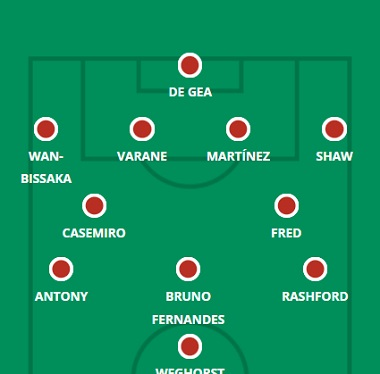
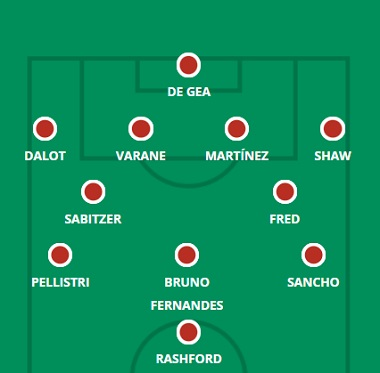
11-20

diff --git a/united.html b/united.html
@@ -63,15 +63,15 @@
     <hgroup>
         <h1> Provável Escalação</h1>
         <h2 class="direita"> por FabioVascão </h2>
-        <h3 class="direita"> Atualizado em 03/Fever eiro/2023 </h3>
+        <h3 class="direita"> Atualizado em 10/Fevereiro/2023 </h3>
     </hgroup>
 
     <div class="selecao"><p><b><img src="images/logos/manchester-united.png" width="100rem" height="100rem"/> Manchester United</b></p></div>
        
     <div class="escalacao">
         <div class="topo">
-            <h2 class="titulo">Ultimas Notícias</h2> <h4><p> Diogo Dalot (músculo) voltou a treinar com o Manchester United esta semana, mas não houve nenhuma atualização sobre sua condição física de Erik ten Hag na seção de transmissão de sua coletiva de imprensa pré-jogo. O reserva Jack Butland está inelegível para enfrentar seu clube pai no sábado, enquanto Scott McTominay (questão não especificada) juntou-se aos ausentes de longa data Christian Eriksen (tornozelo) e Donny van de Beek (joelho) nas laterais. A nova contratação, Marcel Sabitzer, foi considerada apta para jogar por seu técnico, no entanto, e os recém-disponíveis Jadon Sancho e Anthony Martial apareceram como substitutos na vitória da semifinal da Carabao Cup no meio da semana sobre o Nottingham Forest. Quem faz parceria com Casemiro é provavelmente a maior chamada para dez Hag, com Fred talvez o favorito (ele desempenhou o papel com grande efeito contra o Spurs na 12ª rodada), já que Sabitzer teve apenas uma sessão de treinamento com seus companheiros de equipe. O retorno iminente de Dalot levanta o alarme para Aaron Wan-Bissaka, que tem se saído bem como lateral-direito ultimamente, enquanto as perspectivas iniciais de Tyrell Malacia dependem inteiramente de Shaw se machucar ou ser transferido para o meio-campo novamente. Quem lidera a linha é outro grande dilema: Martial foi sem dúvida apressado demais na Gameweek 20, então dez Hag pode querer resistir ao impulso de fazê-lo novamente aqui, embora esteja claro o quanto ele ama o francês no topo.</p></h4><br>
-            <h4><strong>Dúvidas:</strong> Dalot, Van de Beek, Eriksen, Butland e McTominay.</h4>
+            <h2 class="titulo">Ultimas Notícias</h2> <h4><p> Não temos certeza se teremos notícias de Erik ten Hag antes do prazo final da Gameweek 23, com seu tempo anunciado na lista de coletiva de imprensa pré-jogo passando sem nenhuma reportagem. Sabemos que Christian Eriksen (tornozelo), Donny van de Beek (joelho) e Casemiro (suspenso) permanecem de fora, embora pareça improvável que Scott McTominay (problema não especificado) se recupere para a rápida partida de volta em Elland Road. A disponibilidade de Anthony Martial (quadril) e Antony (perna) para a Rodada 23 também é desconhecida depois que ten Hag excluiu a dupla do confronto no meio da semana contra o Leeds, uma partida que Aaron Wan-Bissaka perdeu devido a “doença”. O United ficará sem corpos se nenhum desses contingentes retornar, mas dez Hag ainda tem opções disponíveis para ele se quiser agitar as coisas, com sua reformulação tática no meio da semana de mover Marcus Rashford para o topo às custas do ineficaz Wout Weghorst certamente algo na frente de sua mente. Jadon Sancho está suficientemente impressionado para sugerir que voltará ao XI titular no domingo, deixando Alejandro Garnacho e Facundo Pellistri brigando pelo outro meio-campo se Antony ou Martial não estiverem disponíveis. O mais defensivo Wan-Bissaka também pode retornar no lugar de Diogo Dalot se se recuperar de uma doença, com Wilfried Gnonto provando ser um punhado no jogo reverso de quarta-feira. Vimos o mal do Jekyll-e-Hyde Fred em Old Trafford, mas exceto por empurrar Victor Lindelof para o meio-campo (algo que Ten Hag discutiu anteriormente e como aconteceu nos estágios finais no meio da semana), não há muita competição para o brasileiro atualmente.</p></h4><br>
+            <h4><strong>Dúvidas:</strong> Van de Beek, Eriksen, Antony, Martial, Wan-Bissaka, Casemiro e McTominay.</h4>
         </div>
         <aside>
             <figure>

diff --git a/leeds.html b/leeds.html
@@ -63,15 +63,15 @@
     <hgroup>
         <h1> Provável Escalação</h1>
         <h2 class="direita"> por FabioVascão </h2>
-        <h3 class="direita"> Atualizado em 03/Fevereiro/2023 </h3>
+        <h3 class="direita"> Atualizado em 10/Fevereiro/2023 </h3>
     </hgroup>
 
     <div class="selecao"><p><b><img src="images/logos/leeds.png" width="100rem" height="100rem"/> Leeds</b></p></div>
        
     <div class="escalacao">
         <div class="topo">
-            <h2 class="titulo">Ultimas Notícias</h2> <h4><p> Rodrigo Moreno (tornozelo) juntou-se a Stuart Dallas (joelho), Archie Gray (tornozelo), Sonny Perkins (tornozelo) e Adam Forshaw (quadril) nos bastidores da viagem a Nottingham Forest, enquanto Robin Koch ficará de fora deste jogo por suspensão . Pascal Struijk, Liam Cooper, Crysencio Summerville e Tyler Adams estão todos aptos, no entanto, enquanto a equipe do Leeds foi reforçada desde a 21ª rodada com as contratações do meio-campista Weston McKennie e do jovem meia Diogo Monteiro. Há dores de cabeça de seleção em todo o parque com os retornados por lesão e as aquisições da janela de janeiro. Qualquer combinação de Cooper, Struijk e Max Wober pode ser combinada na ausência de Koch, embora haja a chance de Jesse Marsch optar pelo lateral-direito natural Luke Ayling no meio-campo. A chegada de McKennie ameaça o lugar de Marc Roca ou dá a Marsch a opção de ir para 4-3-3, enquanto Georginio Rutter e Luis Sinisterra estão pressionando para começar nos flancos / cima depois de perder contra Accrington no fim de semana passado. O estado mental de Jack Harrison pode influenciar parcialmente se algum deles conseguirá o aceno no City Ground, já que o ala - que se destacou na copa no fim de semana passado - estava muito perto de se juntar ao Leicester no prazo final um dia antes de o plugue ser desligado em movimento . Até mesmo o esquecido Junior Firpo está reivindicando a titularidade depois de impressionar em Accrington, embora a disponibilidade dos canhotos Wober, Struijk e Cooper torne isso menos provável. Bamford espera liderar a linha na ausência de Rodrigo, mas o tempo de jogo compartilhado de alguma variedade com Rutter parece provável na próxima semana e além.</p></h4><br>
-            <h4><strong>Dúvidas:</strong> Dallas, Gray (Archie), Rodrigo, Koch, Perkins e Forshaw.</h4>
+            <h2 class="titulo">Ultimas Notícias</h2> <h4><p> Pascal Struijk (suspensão) se juntou a Rodrigo Moreno (tornozelo) e Stuart Dallas (joelho) nas laterais, enquanto os comentários do gerente interino Michael Skubala sobre as "lesões de longa duração" permanecerem as mesmas sugerem Archie Gray (tornozelo) e Adam Forshaw (quadril ) permanecem fora. Liam Cooper (knock) e Marc Roca (knock) serão avaliados depois de perder o jogo reverso contra o Manchester United, enquanto Luis Sinisterra (músculo) não está muito ferido depois de sair mancando do jogo no meio da semana, mas ainda é uma dúvida significativa para domingo . Junior Firpo impressionou como substituto em Old Trafford e será necessário como lateral-esquerdo se Cooper se juntar a Struijk nas laterais (o versátil Max Wober continua no meio-campo), enquanto Brenden Aaronson e Crysencio Summerville lutarão para substituir Sinisterra fora de largura; foi o primeiro que saiu do banco para substituir o colombiano na quarta-feira. Há uma chance de Georginio Rutter conseguir uma saída no meio se Patrick Bamford for considerado muito arriscado para começar dois jogos em quatro dias, embora Bamford tenha pelo menos conseguido respirar depois de uma hora no derby dos Roses. Sam Greenwood ou Roca (se adequado) também podem entrar para fazer um meio-campo de três homens, caso Skubala queira proceder com um pouco mais de cautela desta vez.</p></h4><br>
+            <h4><strong>Dúvidas:</strong> Dallas, Struijk, Gray (Archie), Rodrigo, Cooper, Perkins, Roca, Sinisterra e Forshaw.</h4>
         </div>
         <aside>
             <figure>

diff --git a/brighton.html b/brighton.html
@@ -63,15 +63,15 @@
     <hgroup>
         <h1> Provável Escalação</h1>
         <h2 class="direita"> por FabioVascão </h2>
-        <h3 class="direita"> Atualizado em 03/Fevereiro/2023 </h3>
+        <h3 class="direita"> Atualizado em 10/Fevereiro/2023 </h3>
     </hgroup>
 
     <div class="selecao"><p><b><img src="images/logos/brighton.png" width="100rem" height="100rem"/> Brighton</b></p></div>
        
     <div class="escalacao">
         <div class="topo">
-            <h2 class="titulo">Ultimas Notícias</h2> <h4><p> Levi Colwill (músculo), Adam Lallana (músculo), Jakub Moder (joelho) e Alexis Mac Allister (suspenso) perderão a visita ao Bournemouth, enquanto Evan Ferguson (joelho) será avaliado após o temor de uma lesão grave diminuir. Como resultado, Roberto De Zerbi não está muito longe de ser reduzido ao máximo neste fim de semana, mas ainda há uma ou duas dores de cabeça de seleção para o chefe de Brighton: onde ele decide colocar o versátil Pascal Gross pode ditar se Jeremy Sarmiento ou Billy Gilmour vem para o lado para um raro início de liga. A forma física de Adam Webster (ele saiu após 45 minutos na copa) também pode ser o fator decisivo no meio-campo, e foi interessante ver Joel Veltman substituí-lo contra o Liverpool após a exibição vacilante de Jan Paul van Hecke contra o Leicester na Gameweek 21. Os senhores Sanchez, Dunk, Estupinan, Gross, March e Mitoma parecem titulares seguros, enquanto De Zerbi confirmou que Tariq Lamptey jogará e que Facundo Buonanotte estará no banco contra os Cherries. Não parece haver uvas verdes com Moises Caicedo depois de seu apelo 'venha e me pegue' ao Arsenal na janela de transferência de janeiro, então o internacional do Equador parece pronto para retornar ao meio-campo.</p></h4><br>
-            <h4><strong>Dúvidas:</strong> Moder, Fergunson, Lallana, Mac Allister e Colwill. </h4>
+            <h2 class="titulo">Ultimas Notícias</h2> <h4><p> Levi Colwill (músculo), Jakub Moder (joelho) e Adam Lallana (músculo) permanecem de fora e Brighton tem "algumas dúvidas [não identificadas]", mas Alexis Mac Allister está de volta após suspensão e Evan Ferguson (joelho) foi aprovado. Mac Allister foi um dos dois titulares confirmados por Roberto De Zerbi em sua pressão pré-jogo, com Joel Veltman também homenageado. Isso não nos ajuda muito, no entanto, já que Veltman pode ser lateral-direito (no lugar de Tariq Lamptey) ou meio-zagueiro (preferido a Adam Webster), enquanto o comentário de De Zerbi sobre a escolha entre Ferguson ou Deniz Undav sugere que Pascal Gross não será acomodado mais à frente - então o alemão pode estar na lateral-direita ou mesmo ser uma das dúvidas misteriosas a que De Zerbi aludiu. O chefe do Brighton parecia estar a apontar-nos na direção de Undav recebendo o aceno atrás de Danny Welbeck, dizendo que "sabe quando tem de jogar e quando tem de atacar o espaço" e que é "certo dar-lhe a possibilidade jogar". Tudo poderia ser kidology antes do derby M23, é claro. Em outros lugares, os senhores Sanchez, Dunk, Estupinan, March e Mitoma parecem titulares seguros, a menos que sejam vítimas de lesões não declaradas, enquanto Moises Caicedo espera ser chamado de volta no meio-campo depois que De Zerbi o colocou de volta no banco após a transferência no mês passado.</p></h4><br>
+            <h4><strong>Dúvidas:</strong> Moder, Lallana e Colwill. </h4>
         </div>
         <aside>
             <figure>

diff --git a/brentford.html b/brentford.html
@@ -63,15 +63,15 @@
     <hgroup>
         <h1> Provável Escalação</h1>
         <h2 class="direita"> por FabioVascão </h2>
-        <h3 class="direita"> Atualizado em 03/Fevereiro/2023 </h3>
+        <h3 class="direita"> Atualizado em 10/Fevereiro/2023 </h3>
     </hgroup>
 
     <div class="selecao"><p><b><img src="images/logos/brentford.png" width="100rem" height="100rem"/> Brentford</b></p></div>
        
     <div class="escalacao">
         <div class="topo">
-            <h2 class="titulo">Ultimas Notícias</h2> <h4><p> Pontus Jansson (coxa) e Frank Onyeka (coxa) permanecem de fora, mas Shandon Baptiste pode retornar à equipe da rodada, depois de ter se recuperado em janeiro, após alguns meses afastado. Thomas Frank pode estar em um dilema em relação à formação inicial, já que a implantação do 3-5-2 que ele normalmente usa contra os seis grandes times também está em operação contra o West Ham e o Leeds ultimamente. Frank voltou para um 4-3-3 para a vitória em casa sobre o Bournemouth na Gameweek 20, no entanto, e ele pode ver a visita do Southampton, último colocado da tabela, de uma maneira semelhante. Oito jogadores parecem titulares seguros (exceto por lesão) e as questões estão no lado direito da defesa, Josh DaSilva contra o mais defensivo Vitaly Janelt no meio-campo, e quem é Yoane Wissa, Keane Lewis-Potter e o novo garoto Kevin Schade recebe o aceno no flanco esquerdo se Frank for com três para cima. Mads Roerslev e Aaron Hickey (que não joga um minuto desde outubro) são laterais-direitos mais naturais, embora um desses dois jogadores e Kristoffer Ajer ainda possam jogar no mesmo time se virmos um sistema lateral novamente.</p></h4><br>
-            <h4><strong>Dúvidas:</strong> Baptiste, Onyenka e Jansson. </h4>
+            <h2 class="titulo">Ultimas Notícias</h2> <h4><p> Pontus Jansson (coxa), Frank Onyeka (coxa) e Thomas Strakosha (tornozelo) permanecem de fora para a viagem ao Arsenal, mas não há outras preocupações que saibamos antes do jogo de sábado. De uma coisa podemos ter certeza: Thomas Frank está usando um 3-5-2 para este confronto, como ele faz quase exclusivamente ao enfrentar um time 'big-seis' da Premier League. Cerca de oito dos XI previstos aqui também são titulares muito prováveis, com os dilemas sendo Kristoffer Ajer x Zanka no meio-campo, Aaron Hickey x Mads Roerslev na lateral direita e Josh Dasilva x Vitaly Janelt no meio-campo. Ajer é o batedor mais progressivo na bola contra as qualidades defensivas mais tradicionais de Zanka, enquanto Hickey normalmente seria um titular seguro, mas parecia enferrujado em seu retorno contra o Southampton. No meio-campo, é uma questão de saber se o aço adicionado de Janelt é necessário sobre o Dasilva mais ofensivo em um sistema já defensivo. Yoane Wissa será o provável substituto da Gameweek 22, ocupando seu lugar ao lado de nomes como Keane Lewis-Potter, Kevin Schade e Mikkel Damsgaard no banco.</p></h4><br>
+            <h4><strong>Dúvidas:</strong> Baptiste, Strakosha, Onyenka e Jansson. </h4>
         </div>
         <aside>
             <figure>

diff --git a/everton.html b/everton.html
@@ -63,15 +63,15 @@
     <hgroup>
         <h1> Provável Escalação</h1>
         <h2 class="direita"> por FabioVascão </h2>
-        <h3 class="direita"> Atualizado em 03/Fevereiro/2023 </h3>
+        <h3 class="direita"> Atualizado em 10/Fevereiro/2023 </h3>
     </hgroup>
 
     <div class="selecao"><p><b><img src="images/logos/everton.png" width="100rem" height="100rem"/> Everton</b></p></div>
        
     <div class="escalacao">
         <div class="topo">
-            <h2 class="titulo">Ultimas Notícias</h2> <h4><p> Em uma coletiva de imprensa dominada por conversas sobre a situação atual do Everton e seu próprio futuro, o técnico Frank Lampard revelou brevemente que os Toffees não têm novas preocupações físicas. Nathan Patterson (joelho) ainda está na lista de lesionados, enquanto James Garner (costas) e Andros Townsend (joelho) estão apenas de volta aos treinos individuais e não serão considerados. Michael Keane (joelho) também esteve de fora recentemente e acredita-se que continuará afastado. Lampard tem que decidir se vai ficar com um sistema lateral ou ir para quebrar em um 4-3-3 mais ofensivo para esta bola de seis pontos, e pode ser uma escolha direta entre Ben Godfrey como terceiro zagueiro ou Dwight. McNeil/Anthony Gordon como ala extra dependendo da decisão. Yerry Mina também pode entrar em jogo como zagueiro, com sua altura extra potencialmente útil para combater a força aérea do West Ham em lances de bola parada.</p></h4><br>
-            <h4><strong>Dúvidas:</strong> Garner, Patterson, Godfrey, Keane e Townsend. </h4>
+            <h2 class="titulo">Ultimas Notícias</h2> <h4><p> Dominic Calvert-Lewin (coxa) é "toque e vá na melhor das hipóteses" para o derby de Merseyside, enquanto Nathan Patterson (joelho) e Andros Townsend (ACL) permanecem de fora; Patterson está de volta à grama, mas apenas fazendo um trabalho de treinamento individual. James Garner (costas) e Michael Keane (joelho) também voltaram a treinar, mas, novamente, resta saber se eles estão aptos o suficiente para a viagem a Anfield. Dyche terá que fazer uma mudança forçada no topo se Calvert-Lewin perder como esperado, com Neal Maupay e Ellis Simms - ambos mencionados por seu gerente como possibilidades de destaque na imprensa de sexta-feira - as opções esperando nos bastidores. A excelente natureza da vitória do Everton sobre o Arsenal na semana passada sugere que novas alterações são improváveis, com Dyche cultivando a reputação de avesso à rotação durante seu tempo no Burnley. Jogadores como Yerry Mina, Mason Holgate, Ben Godfrey e até então regular Demarai Gray enfrentarão mais decepções, a menos que surjam outros problemas físicos entre agora e segunda-feira.</p></h4><br>
+            <h4><strong>Dúvidas:</strong> Garner, Patterson, Calvert-Lewin, Keane e Townsend. </h4>
         </div>
         <aside>
             <figure>
